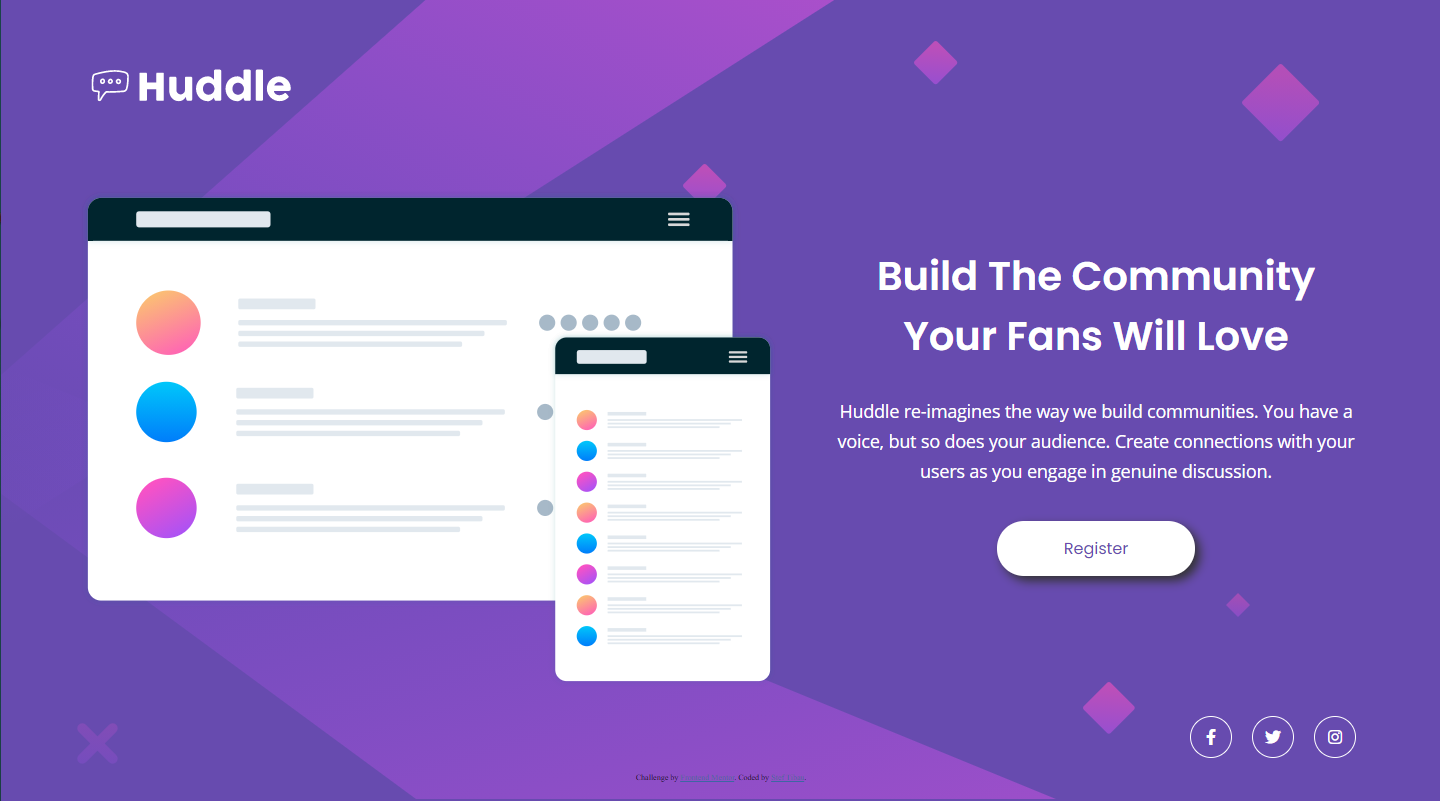
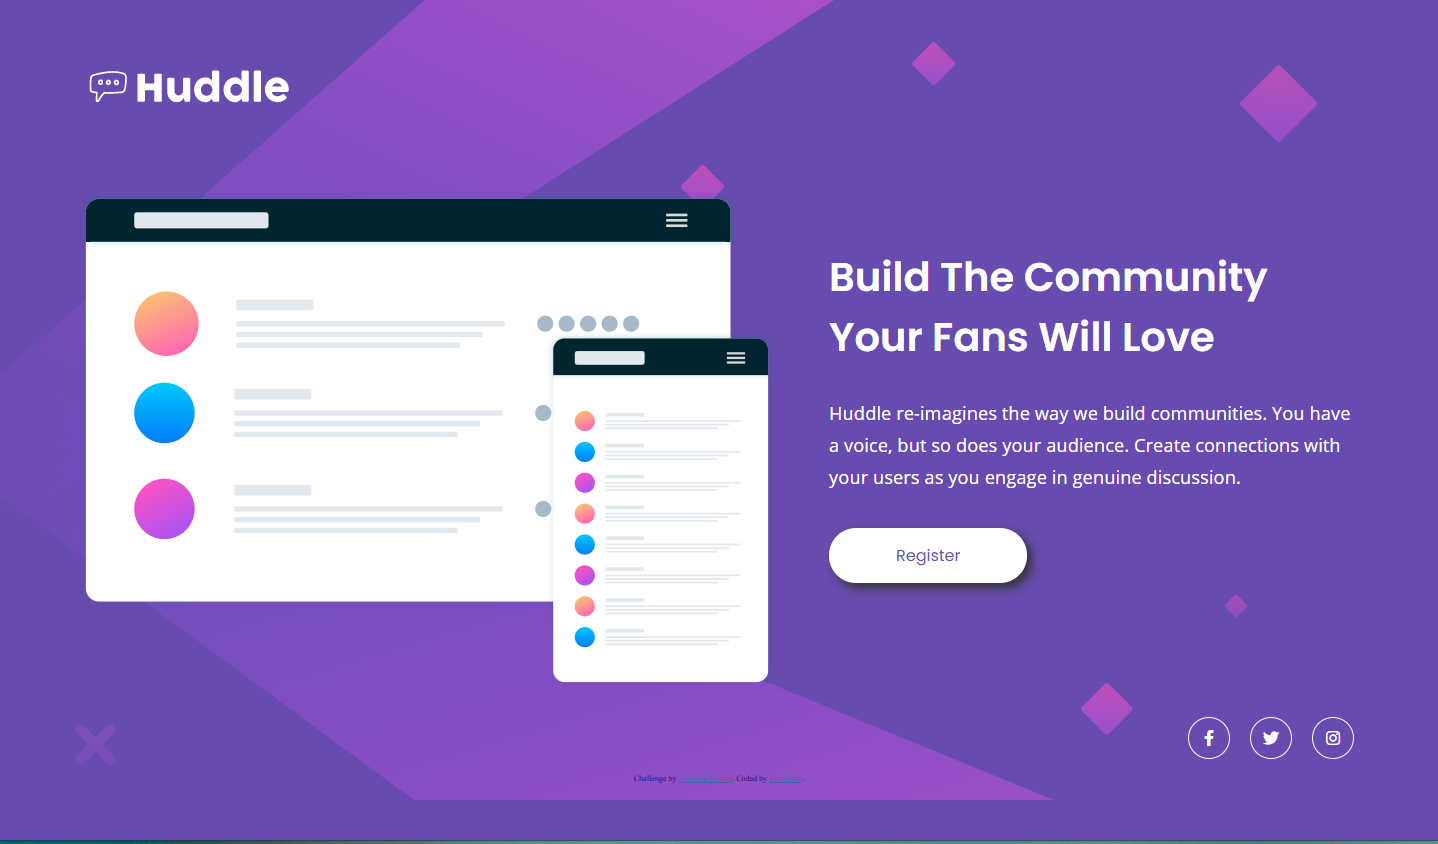
Correct text alignement of explanatory section in desktop solution

diff --git a/css/styles.css b/css/styles.css
@@ -65,7 +65,8 @@ body{
     text-align:center;  
 }@media screen and (min-width: 500px){
     .explanation{
-        padding: 45px 0px 45px 55px;        
+        padding: 45px 0px 45px 55px;  
+        text-align:left;      
     }
 }
 
@@ -78,6 +79,7 @@ body{
 }@media screen and (min-width: 500px){
     .explanation > h1{         
         font-size: 2.5em;   
+        text-align: left;
     }    
 }
 
@@ -91,9 +93,10 @@ body{
 }@media screen and (min-width: 500px){
     .explanation > p {
         font-family: "Open Sans";
-        font-size: 1.1em;    
+        font-size: 1.15em;    
         padding: 20px 0;
         line-height: 1.75;        
+        text-align: left;
     }
 }
 
